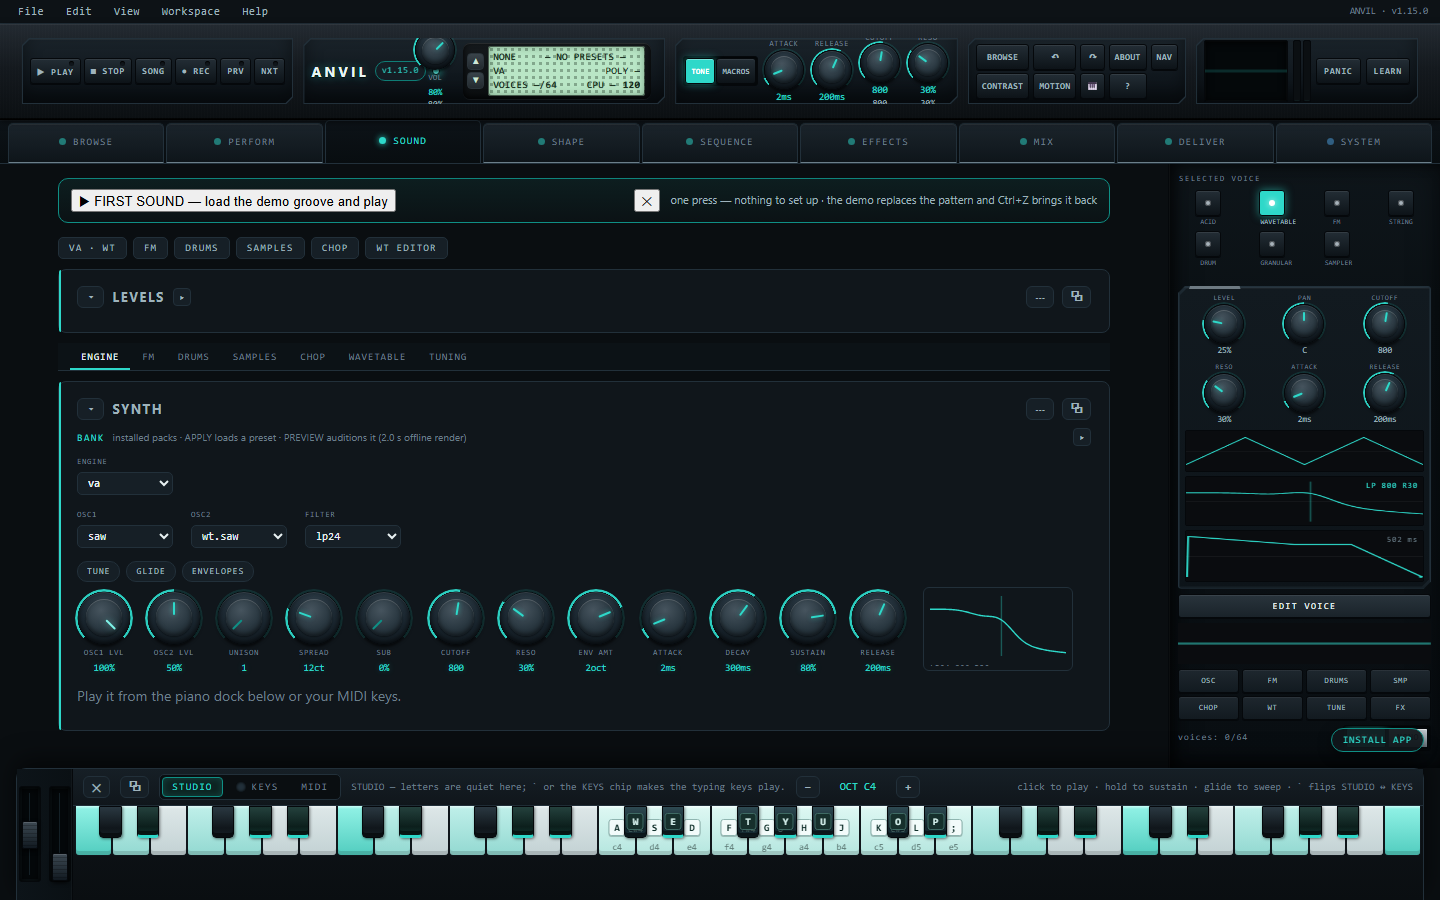
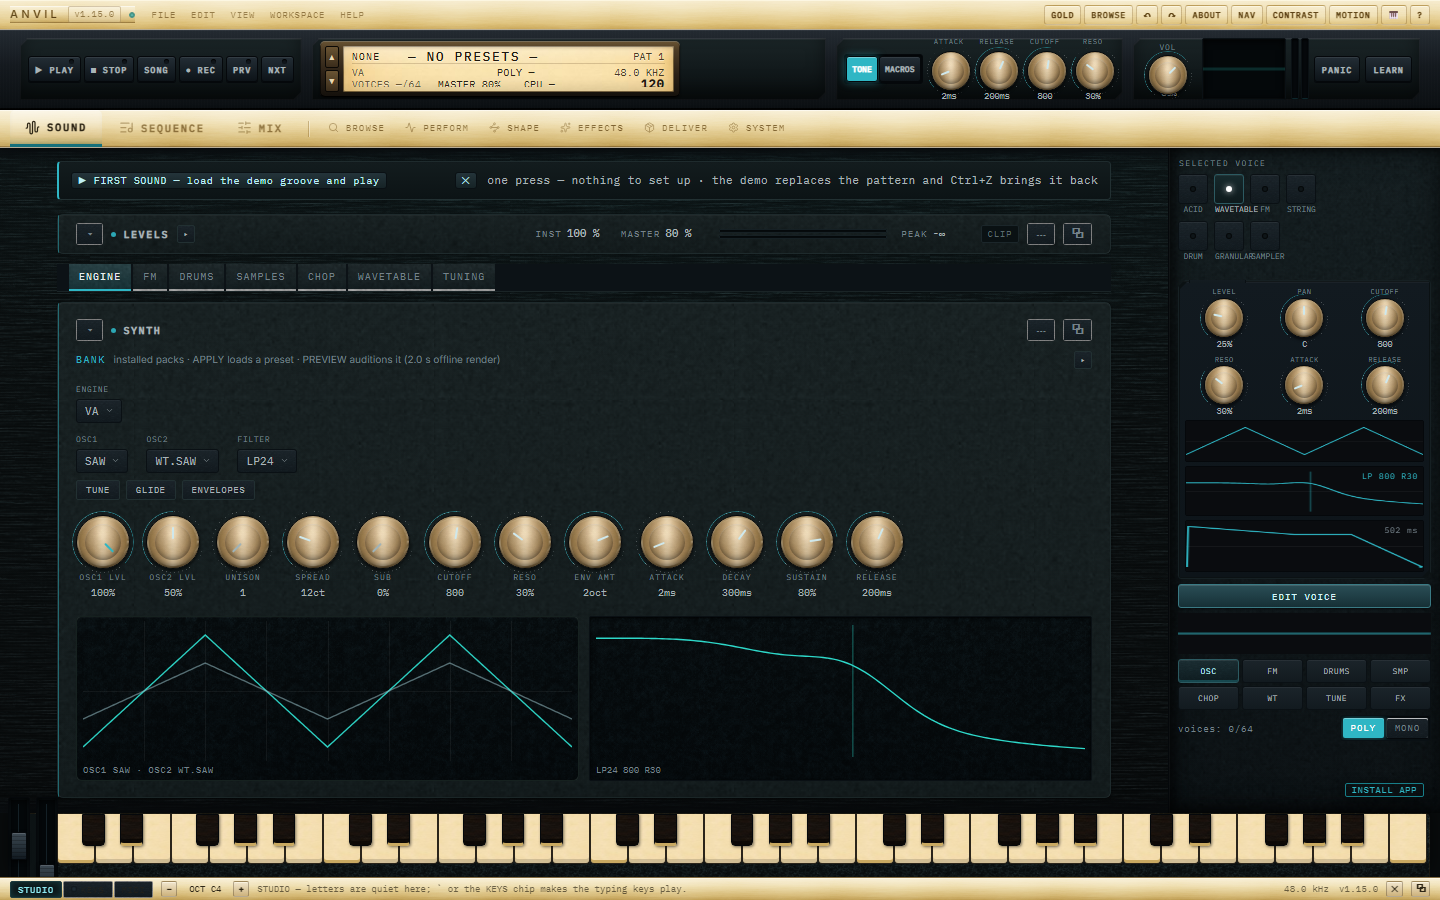
SAVE POINT: console P2 + full skin complete, release v1.15.0 in progress
Full resume block at the top of CONTINUATION-2026-11-10-CONSOLE.md: exact gate results per suite, the
corrected alias verdict, stress still running with its assertions holding, the 180s runner clamp, the
complete remaining queue (release steps, PERFORM's feature gap, MIX strips, P3 finish-in-patch,
carried-over items) and the nine traps paid this session.

diff --git a/CONTINUATION-2026-11-10-CONSOLE.md b/CONTINUATION-2026-11-10-CONSOLE.md
@@ -1,35 +1,144 @@
-## RELEASE v1.15.0 — IN PROGRESS (2026-11-10, do not freeze anything yet)
+# SAVE POINT — 2026-11-10, end of session (CONSOLE P2 + FULL SKIN + RELEASE PREP)
 
-**Gate on `d206eec2` (index.html, 6,141,970 B, HEAD `d7b9d4e`):**
-- **28 rigs green, first lap** — every cdp_* suite re-run on these exact bytes: a11y 37 · bounce 32 ·
-  chassis 47 · cockpit 21 · code 36 · comp 41 · deck 35 · fit 49 · fx 28 · hub 68 · import 26 · keys 27 ·
-  knob_feel 19 · m1 33 · m2 40 · midi 34 · mix 47 · platform 52 · rec 29 · s4 42 · s5 36 · sample 29 ·
-  seq 41 · sessions 65 · smoke 81 · store 28 · studio 37 · tune 18.
-- **BENCH PASSED**: realtime ratio **0.999** (identical to the last release build), published voices
-  **light 32 / fat 64**, offline knee **96 pass → 128 fail, monotone**, **invalidReads 0**. The one
-  underrun it logs at light/48 is the rig FINDING its knee (it publishes the highest stable step), not a fail.
-- **STRESS: still running** at t≈525 s when this note was written (protocol: chord/arpeggio cycles 8..64,
-  REAL knob commits on CUTOFF/RESO/UNISON, allOff drain ~every 60 s, heap < 60 MB, **zero underrun deltas at
-  cap**). Live sample at t=525 s: `dUR=0`, heap 13 MB — both assertions holding. It is LONG (~9 min+), not stuck.
-  **It must finish clean before freezing.** Re-check with `ps -p <pid>` + `grep STRESS-RESULT verify/last-cdp_stress.log`.
-- **ALIAS: inconclusive** — printed no leg lines (`ok=0 fail=0`). Treat as unproven, not green; look at what
-  the rig actually emits before the release note claims it.
+## READ THIS FIRST
 
-**RUNNER TRAP (paid twice this session):** the foreground `terminal` timeout clamps at **180 s** — `timeout_s`
-of 600/900/1200 does not survive. Bench and stress both exceed it. Run them with
-`nohup node verify/cdp_X.mjs > verify/last-cdp_X.log 2>&1 < /dev/null &` and poll the log. Note the
-background wrapper's completion notice reports the LAUNCHER's exit, not the rig's — poll the pid.
+**Repo** `C:\Users\Moddy\anvil` · **HEAD** `d4161d0` · **bundle** `index.html` sha
[1 lines of base64/hex data omitted]
 
-**THEN, in order (nothing has been staged or bumped yet):**
-1. Re-stage `windows/stage/Anvil/resources/app/` with today's bundle — it still carries
-   `54df076a` / 4,870,911 B while the app is `d206eec2` / 6,141,970 B. Also refresh `sw.js`,
-   `manifest.webmanifest`, the three `icon-*.png`, `packs/` if they changed, and `build-info.json`
-   (`appBuild`, `appBuildBytes`, `appBuildSha256`, `appBuildNote`, `appTree`).
-2. Bump `windows/version.json` to the same numbers (it currently pins `appBuild 54df076a`, bytes 4,870,911).
-3. Rebuild the installer from `windows/installer/`, then verify by installing.
-4. Shots + `windows/downloads-card-draft.md` → downloads card, then publish v1.15.0.
+### GATE ON THESE EXACT BYTES
+- **28 rigs green, first lap** (all re-run on `d206eec2` after the last change):
+  a11y 37 · bounce 32 · chassis 47 · cockpit 21 · code 36 · comp 41 · deck 35 · fit 49 · fx 28 ·
+  hub 68 · import 26 · keys 27 · knob_feel 19 · m1 33 · m2 40 · midi 34 · mix 47 · platform 52 ·
+  rec 29 · s4 42 · s5 36 · sample 29 · seq 41 · sessions 65 · smoke 81 · store 28 · studio 37 · tune 18
+- **BENCH PASSED** — realtime ratio **0.999** (same as the last release build), published voices
+  **light 32 / fat 64**, offline knee **96 pass → 128 fail monotone**, **invalidReads 0**.
+  The underrun it logs at light/48 is the rig FINDING its knee, not a failure.
+- **ALIAS PASSED** — `ALIAS-RESULT {"verdict":"complete","validation":{"onBinDBc":-165.73,
+  "onBinPass":true,"bh4FloorWorst":-91.22}}`. **It reports ALIAS-RESULT, not `^ ok` legs** — a grep for
+  `^ ok` reads 0/0 and looks inconclusive. It is clean.
+- **STRESS — NOT FINISHED.** Last seen RUNNING (pid 141056) at t≈525 s in a build phase with
+  `dUR=0` (zero underrun deltas at cap) and heap 13 MB against a 60 MB ceiling — both assertions holding.
+  Protocol: chord/arpeggio cycles 8..64, REAL knob commits on CUTOFF/RESO/UNISON, allOff drain ~60 s,
+  heap < 60 MB, zero underrun deltas at cap. **It is long (~9 min+), not stuck. Poll the PID, not the job.**
 
-**Do not retract a version number**: stage and bump only after stress is clean on the final bytes.
+### RUNNER TRAP (paid twice — will bite again)
+The foreground `terminal` timeout **clamps at 180 s**; asking for 600/900/1200 still returns
+"timed out after 180s". Bench and stress both exceed it. Run them detached and poll:
+`cd /c/Users/Moddy/anvil && nohup node verify/cdp_X.mjs > verify/last-cdp_X.log 2>&1 < /dev/null &`
+then `ps -p <pid>` plus `grep -E "BENCH-RESULT|STRESS-RESULT|ALIAS-RESULT" verify/last-cdp_X.log`.
+The background completion notice reports the LAUNCHER's exit, not the rig's — it is meaningless.
+
+## WHAT LANDED THIS SESSION (all committed, all gated)
+
+**P2 — the four working surfaces**
+- **SOUND** (`2dcb6fe`): LEVELS is the output stage now — its head carries INST + MASTER gains, a live
+  stereo peak meter off `avTap.levels`, peak-hold and a latched CLIP tell (`avLevelsStrip`, app_core.js);
+  card 64 → 40 px, knobs stay behind the fold (chassis K24 pins the fold). The duplicate
+  `#av-engine-strip` is retired (hidden; `.av-engine-strip[hidden]{display:none!important}` because a
+  page `display` rule beats the attribute; element kept for smoke R2's six-chip count). The card FILLS the
+  well: control line / one 12-pot row / **screens band** (new oscillator scope + enlarged filter response)
+  that absorbs every spare pixel. Prose note deleted. K24h re-pinned to the band shape.
+- **MIX** (`0913b89`, `d7b9d4e`): the empty state is an **eight-strip ghost rack** (`avMixUiRackHTML`) —
+  T1..T8 plates, fader slot with cap at unity on a 0/-6/-12/-24/-40/-inf scale, stereo meters, M/S, MAIN.
+  Ghosts only, hidden the moment a track exists. Cap + foot prose off the face; duplicate inner MIX title
+  gone. **Per-track FADER added** on `gainDb` (its own spec calls it "track fader"), writing through
+  `avMixUiTrackPatch` so fader and GAIN knob can never disagree; row key excludes gainDb so a drag never
+  rebuilds the row. The control is the §17 range skin ROTATED.
+- **SEQUENCE** (`51735f9`, `ddbf28e`): inert ghost rows to eight (`av-seq-grow` / `av-seq-gcell` — their
+  OWN class names, see traps), instruction prose off the face, pattern textarea 90 → 46 px, and a
+  **16-step transport ruler** in the void beside the BPM knob.
+- **EFFECTS** (`e69ac9c`, `8f7309d`): **signal-flow bar** `IN → DRIVE → FLAVOUR → MOD → DELAY → VERB →
+  CONV → DYN → OUT`, each block lit from its strip's `.av-fx-on` via `avFxChainSync` (called from
+  `avFxSync`). **Definite 104 px height** so it can never stretch a strip. Dead band 153 → ~48 px. Head
+  cap prose off the face. Block screens got a quarter graticule at 0.115 alpha.
+
+**SKIN — one full Higgsfield asset set PER FINISH**
+`cache/scratch/mk_materials.py` emits, separately for gold / silver / walnut: **backplate, card face,
+screen well, metal plate, knob face, keycap, rubber pad, fader cap, wheel rim, white key, black key,
+dial glass** (~24 plates generated this session; credits were 2541 → plenty left).
+- Textures are **high-passed** (blur-subtracted → grain, no blotchy macro cloud) and **centred on
+  mid-grey** so soft-light adds texture and never a cast, with **per-family contrast**: plates 150/150,
+  caps 130/44, keys a photographed object at full opacity.
+- `styles-console.css` **§15** large surfaces · **§16** controls (keycaps, field keys, chips, sub-tabs,
+  rockers, kind keys, launcher keys, module buttons, pads, step cells, fader caps, wheels, fields, rows,
+  badges, wells, popovers, tooltips, piano keys) · **§17** native-widget burial (range inputs → machined
+  cap on a recessed slot, textareas → no resize grip/OS scrollbar, `.av-seq-cell` → pad material) ·
+  **§18** MIX rack + inspector launcher current-page state · **§19** SEQUENCE · **§20** EFFECTS chain ·
+  **§21** MIX per-track fader.
+- Finish mapping lives in `materials.css`: `--mat-backplate/-card/-well/-rail/-btn/-pad/-fader/-wheel/
+  key-white/-key-black/-plate/-knob/-dial` each resolve to that finish's own plates, so a finish swap
+  moves the MATERIAL, not a tint, and geometry cannot change.
+- **Black keys got their own material per finish** (`2ace8f4`) — the last shared asset on the keyboard.
+
+**Also**: the inspector launcher is navigation now (`7d49d11`) — the entry matching the live zone + sub
+carries `.on` + `aria-current="page"`, driven by `av-zone-shown` / `av-sub-shown`.
+
+**Boards for the owner eye gate** (rebuilt after the black-key pass):
+`cache/scratch/board-{gold,silver,walnut}.png` (SOUND/MIX/SEQUENCE/EFFECTS tiled per finish),
+`cache/scratch/board-other.png` (BROWSE/CODE/SHAPE/PERFORM/DELIVER/SYSTEM),
+`cache/scratch/mix-c315-1440.png` (MIX with three real tracks + faders).
+
+## THE QUEUE — in the order it should be taken
+
+### 1. FINISH THE RELEASE v1.15.0 (in progress — nothing staged or bumped yet)
+- [ ] Let **stress** finish. Re-check `ps -p 141056` and `grep STRESS-RESULT verify/last-cdp_stress.log`.
+      It must be clean before freezing. If it lands worse than the last build's 7 deltas, re-run it on a
+      quiet box (`nohup`, nothing else open).
+- [ ] **Re-stage** `windows/stage/Anvil/resources/app/` with today's bundle. It still carries
+      `54df076a` / **4,870,911 B** while the app is `d206eec2` / **6,141,970 B**. Refresh `index.html`,
+      `sw.js`, `manifest.webmanifest`, the three `icon-*.png`, `packs/` if changed, and
+      `build-info.json` (`appBuild`, `appBuildBytes`, `appBuildSha256`, `appBuildNote`, `appTree`).
+- [ ] **Bump** `windows/version.json` to the same numbers (currently pins `appBuild 54df076a`, bytes
+      4,870,911 — both stale).
+- [ ] **Rebuild the installer** from `windows/installer/`, then verify by installing.
+- [ ] Shots + `windows/downloads-card-draft.md` → downloads card, then publish (site + GitHub).
+- [ ] `windows/RELEASE-NOTES-1.15.0.md` already exists and needs a pass against what actually shipped.
+- **Do not retract a version number**: stage and bump only after stress is clean on the final bytes.
+
+### 2. PRODUCT WORK STILL OPEN
+- **PERFORM is a FEATURE gap, not a layout one.** Measured: one 93 px card over 508 px of dead well — the
+  emptiest page in the app. The engine only backs `env.mono` (poly/mono), `voice.glide` and the live
+  `#av-voices` counter. There is **no velocity-curve or key-response DSP**, so a "Voice & feel" surface
+  cannot be built honestly. Either build the DSP first or demote the page. **Do not pad it.**
+- **MIX tracks are still horizontal rows.** They now carry a real per-track fader, but they are not
+  vertical console strips with a dB-scaled fader + meters in the standard order (the P2 spec's shape).
+  Rebuilding them puts the 47 mix legs at risk — own pass, rig open.
+- **EFFECTS strips are still sparse** at default settings (the block screens are honest but near-empty;
+  the graticule helped the read, not the content).
+- **P3 — finish into the patch**: the finish persists in `localStorage['av-finish']` only. Not yet in the
+  project file (export/import with the project) and not in the installer.
+- Two C2 leftovers: mono not per-patch (`env.mono` not in the pack schema); no LCD cell for latency/buffer.
+
+### 3. CARRIED OVER, UNTOUCHED
+- MIDI import bug.
+- Elevated uninstall of the stale `C:\Program Files\Anvil`.
+- Live site still serves the 2026-10-09 build.
+
+## TRAPS PAID THIS SESSION (add to the standing list)
+- **A transparent gradient layer breaks soft-light blending** — the RAW texture shows through as a light
+  grey slab (the sub-tab row did exactly this). Every blended stack needs an OPAQUE base layer.
+- **Contrast is per family, not per sheet.** One spread for a 448 px backplate and a 24 px keycap turns the
+  caps into television static.
+- **An old `flex: 0 0 100%` written for a row-wrap parent measures 100% of the HEIGHT in a column** and
+  swallows the card. Reset the basis in the new layer — and mind specificity: an attribute selector counts
+  like a class, so `.x[data-y] .z` at 0,3,0 beats `.a .z` at 0,2,0. Scope with an id to win.
+- **`sweep_pins.py --old` must be the sha the RIGS carry, not your last build** (paid again).
+- **A finish shot must write the key the APP reads**: `localStorage['av-finish']` + `avFinishBoot()` +
+  ASSERT `body[data-finish]`. `finishshot.mjs` wrote `anvil.finish`, so walnut boards silently came back gold.
+- **Decorative elements need their OWN class names.** Reusing `.av-seq-row`/`.av-seq-cell` for ghost rows
+  broke smoke P4 and cdp_seq — the fix is own class names, never a relaxed assertion.
+- **`cdp_cockpit` was red since P0**: it still pinned the C1 FSVR zone order while P0 shipped modes-first.
+  Re-pinned to `sound,sequence,mix,browse,perform,shape,effects,deliver,system`.
+- **A rig that reports `*-RESULT` lines has no `^ ok` legs** — grepping for `^ ok` reads 0/0 and looks
+  inconclusive. bench and alias both do this.
+- **NEVER stretch a flex column to fill a page** — the first EFFECTS attempt turned two strips into 430 px
+  cards with a void inside each. Fixed heights, or grow something that is meant to grow.
+
+## TOOLS
+`cache/scratch/p2probe.mjs <w> <zone>` (structure + dead bottom) · `p2dump.mjs <cardId> <w> <depth>`
+(card rect tree — NOTE: it hardcodes the sound zone) · `finishshot.mjs <zone> <finish> [w] [name]`
+(any page, any finish — writes the right key and asserts it) · `csprobe.mjs <sel>` (computed style) ·
+`mixshot.mjs` (MIX with tracks, both widths) · `battery_fast.sh <card>` (per-card fast lane).
 
 ---
 
